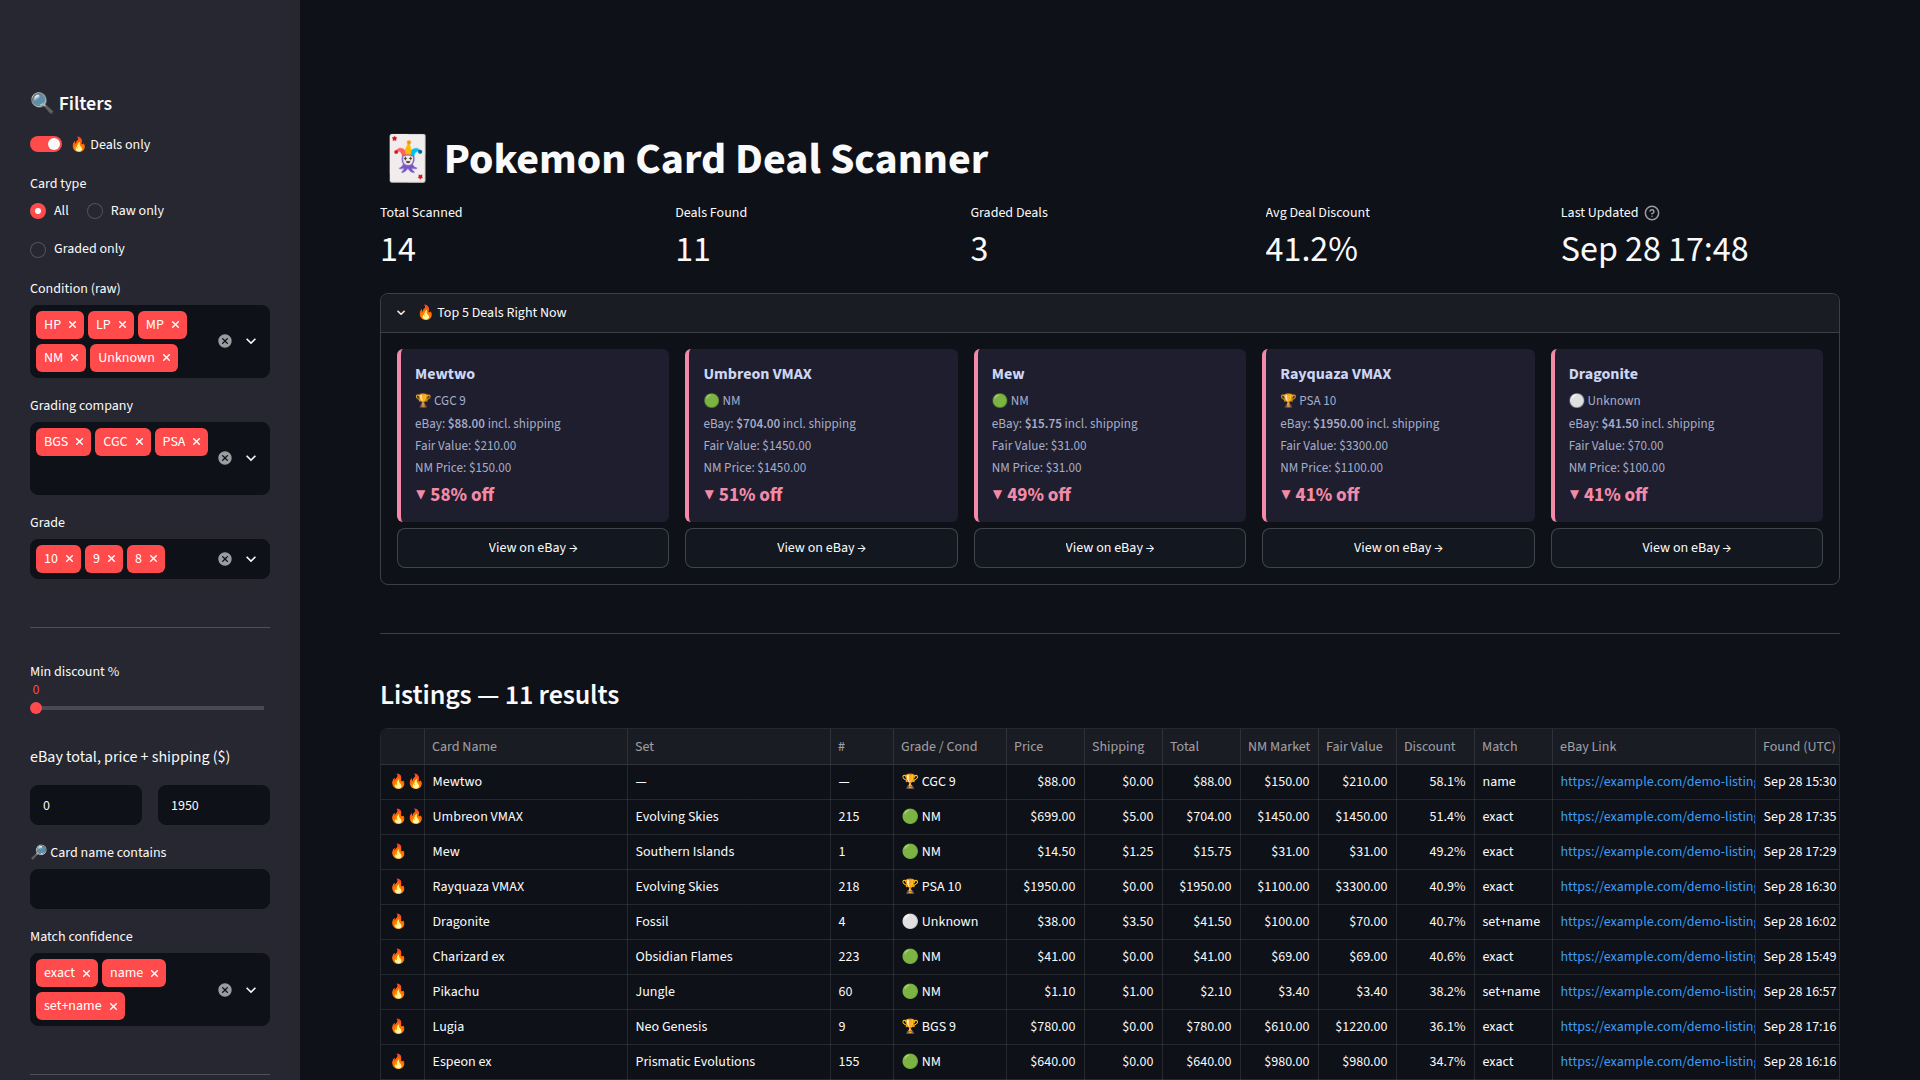
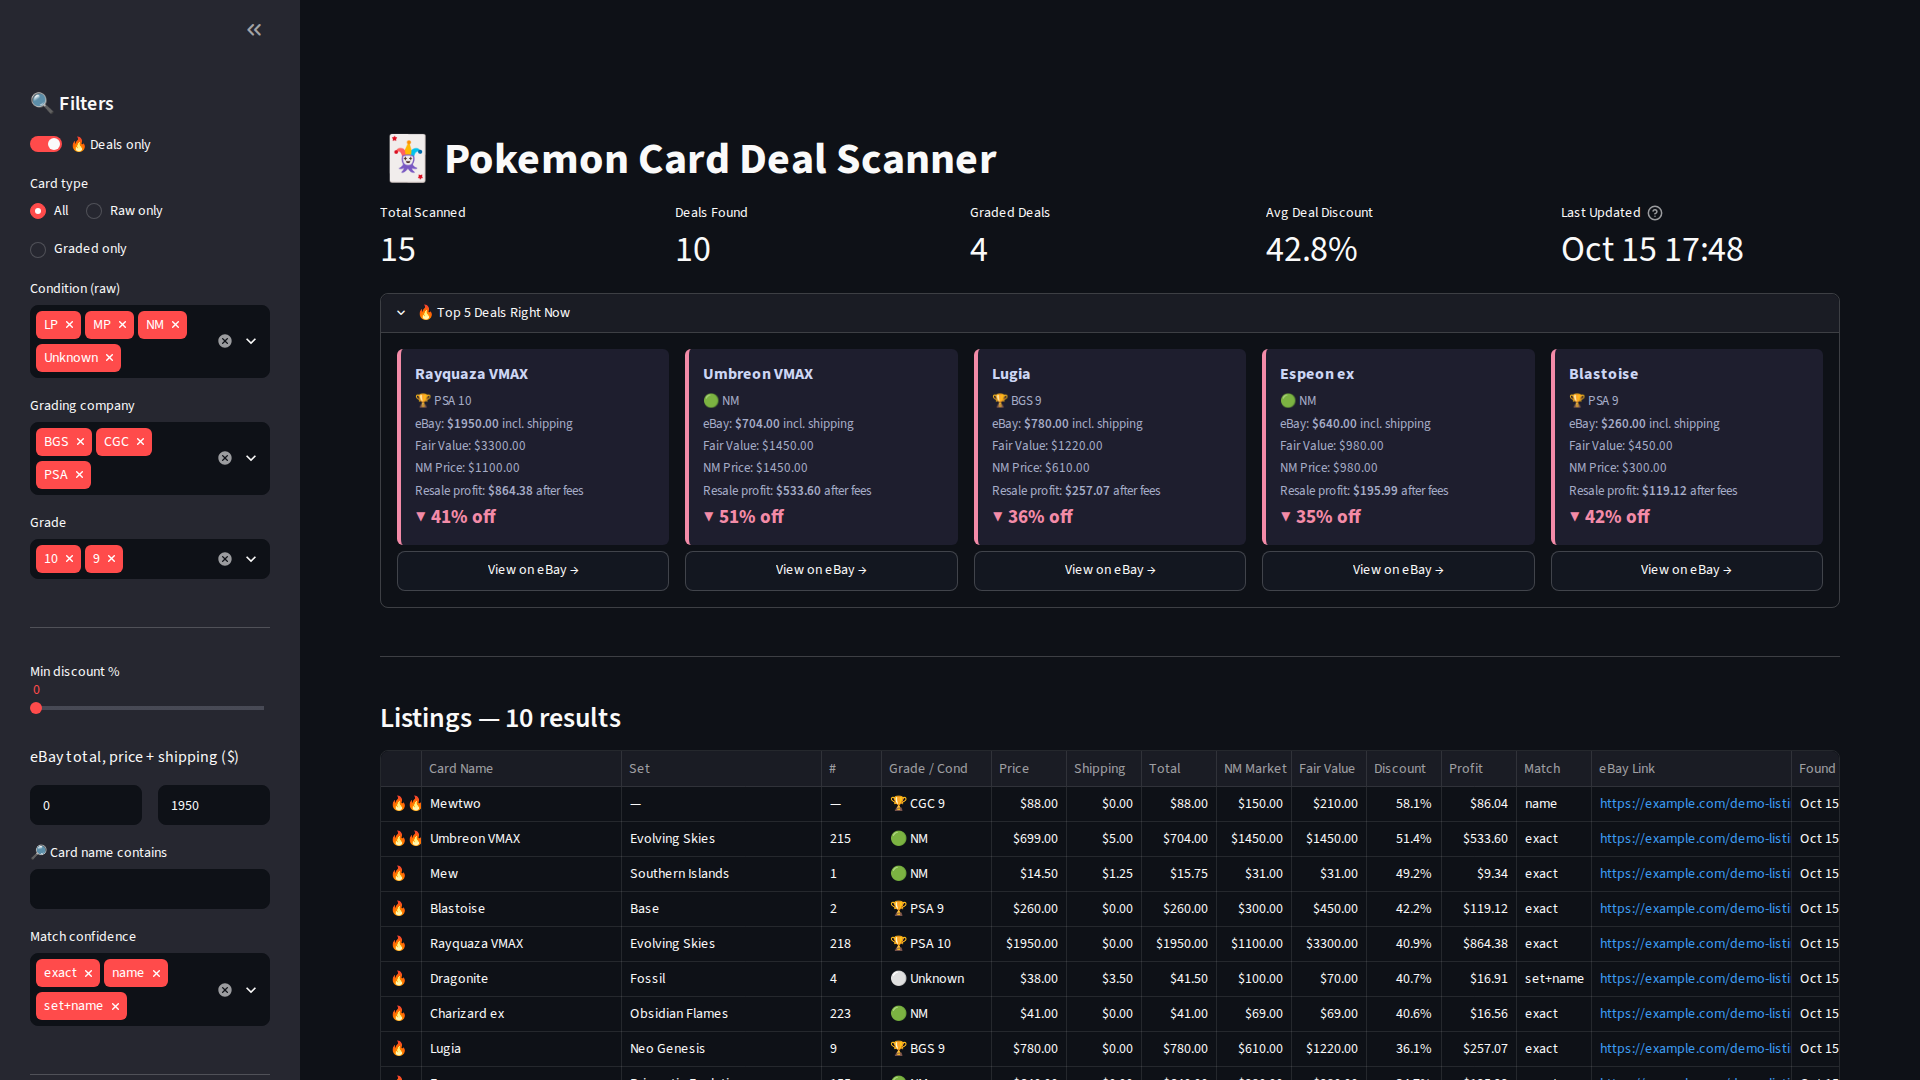
Dashboard: shorter Profit column label; refresh the README screenshot
The screenshot now shows resale profit on the top-5 cards and in the
table, scored with the default resale table (demo data, example.com links).

Claude-Session: https://claude.ai/code/session_01RsJS6Ta3HBTQ8GDdj7SxhH

diff --git a/dashboard.py b/dashboard.py
@@ -285,9 +285,9 @@ def main() -> None:
             "tcg_market_price": st.column_config.NumberColumn("NM Market",   format="$%.2f", width="small"),
             "fair_value":       st.column_config.NumberColumn("Fair Value",  format="$%.2f", width="small"),
             "discount_pct":     st.column_config.NumberColumn("Discount",    format="%.1f%%", width="small"),
-            "resale_profit":    st.column_config.NumberColumn("Resale profit", format="$%.2f", width="small",
-                                                              help="Reselling at fair value on eBay, after its "
-                                                                   "fees and your postage"),
+            "resale_profit":    st.column_config.NumberColumn("Profit",      format="$%.2f", width="small",
+                                                              help="Resale profit: selling at fair value on eBay, "
+                                                                   "after its fees and your postage"),
             "match_confidence": st.column_config.TextColumn("Match",         width="small"),
             "url":              st.column_config.LinkColumn("eBay Link",     width="medium"),
             "scraped_at":       st.column_config.DatetimeColumn("Found (UTC)", format="MMM D HH:mm", width="small"),
